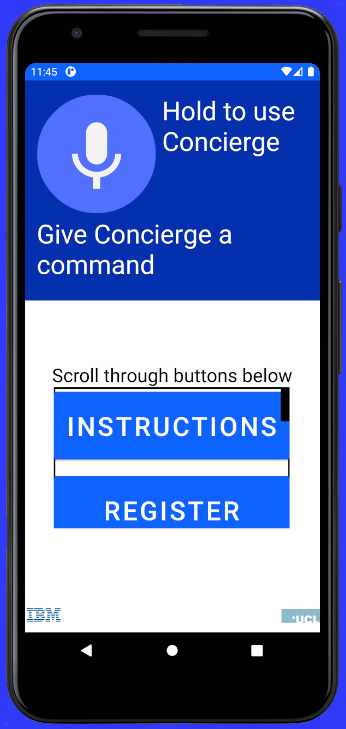
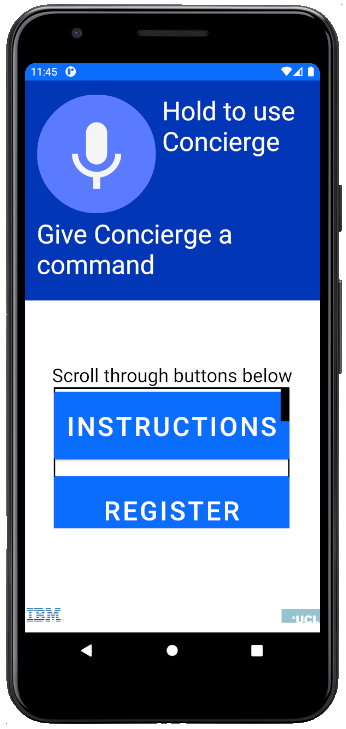
Update front page image

Changed region(s): [[0.0, 0.0, 1.0, 1.0]]

diff --git a/Submission Website/index.html b/Submission Website/index.html
@@ -40,7 +40,7 @@
         </div>
 
         <div class="image-container noselect">
-            <img alt="Screenshot of admin site." src="assets/images/index/Main App page.png">
+            <img alt="Screenshot of admin site." src="assets/images/index/concierge.png">
         </div>
 
         <script>

diff --git a/Submission Website/assets/styles/index.css b/Submission Website/assets/styles/index.css
@@ -66,8 +66,8 @@
 .demo-video .card {
     background: var(--dark-blue);
     width: 60%;
-    padding-bottom: 3%;
     box-shadow: 0 0 16px 1px rgba(0, 0, 0, .33);
+    padding: 0;
 }
 
 .team-members {
